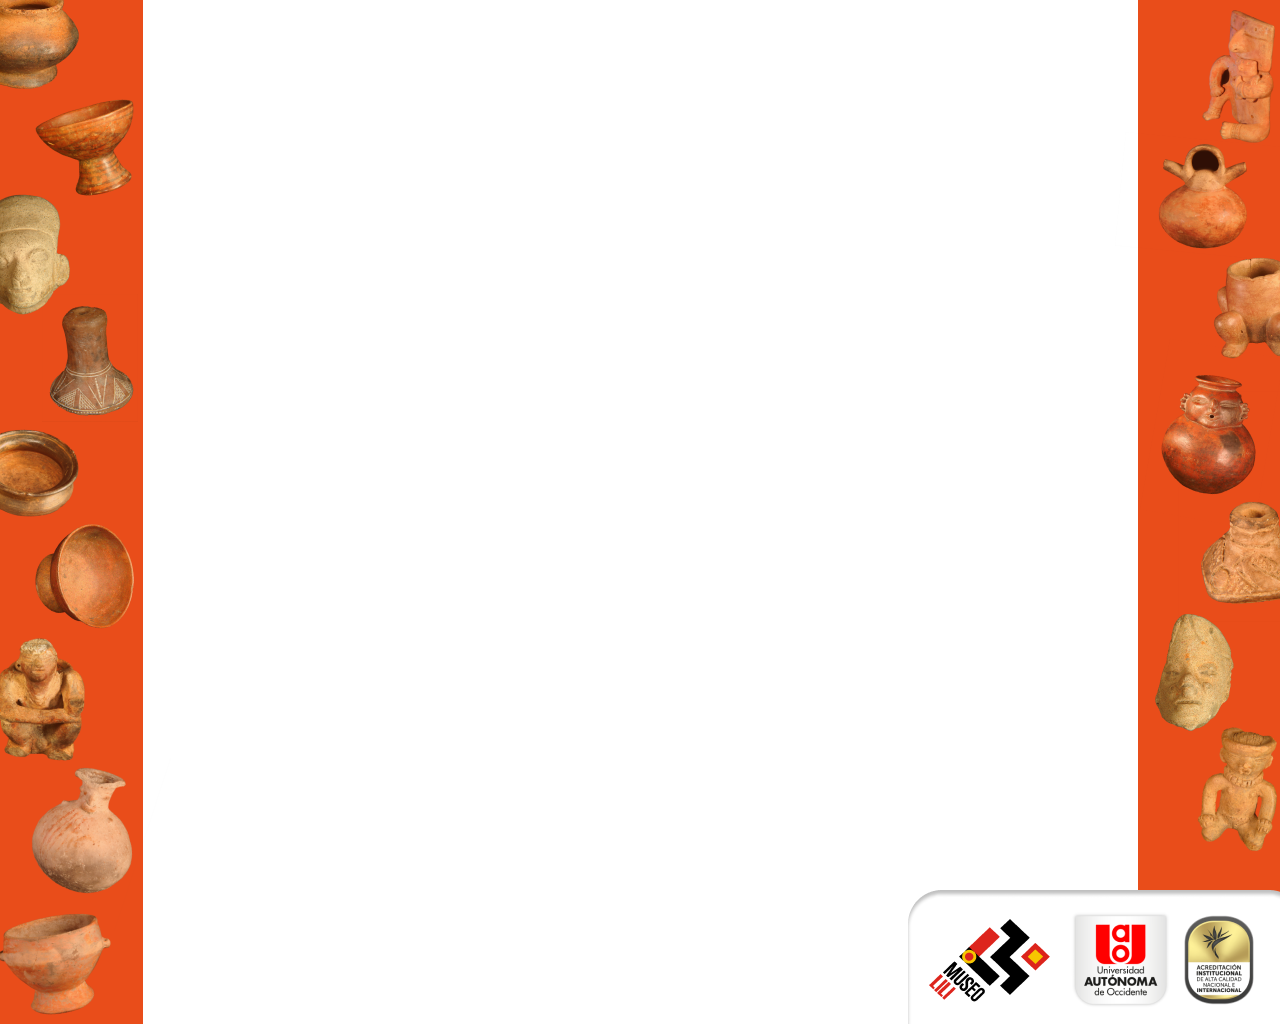
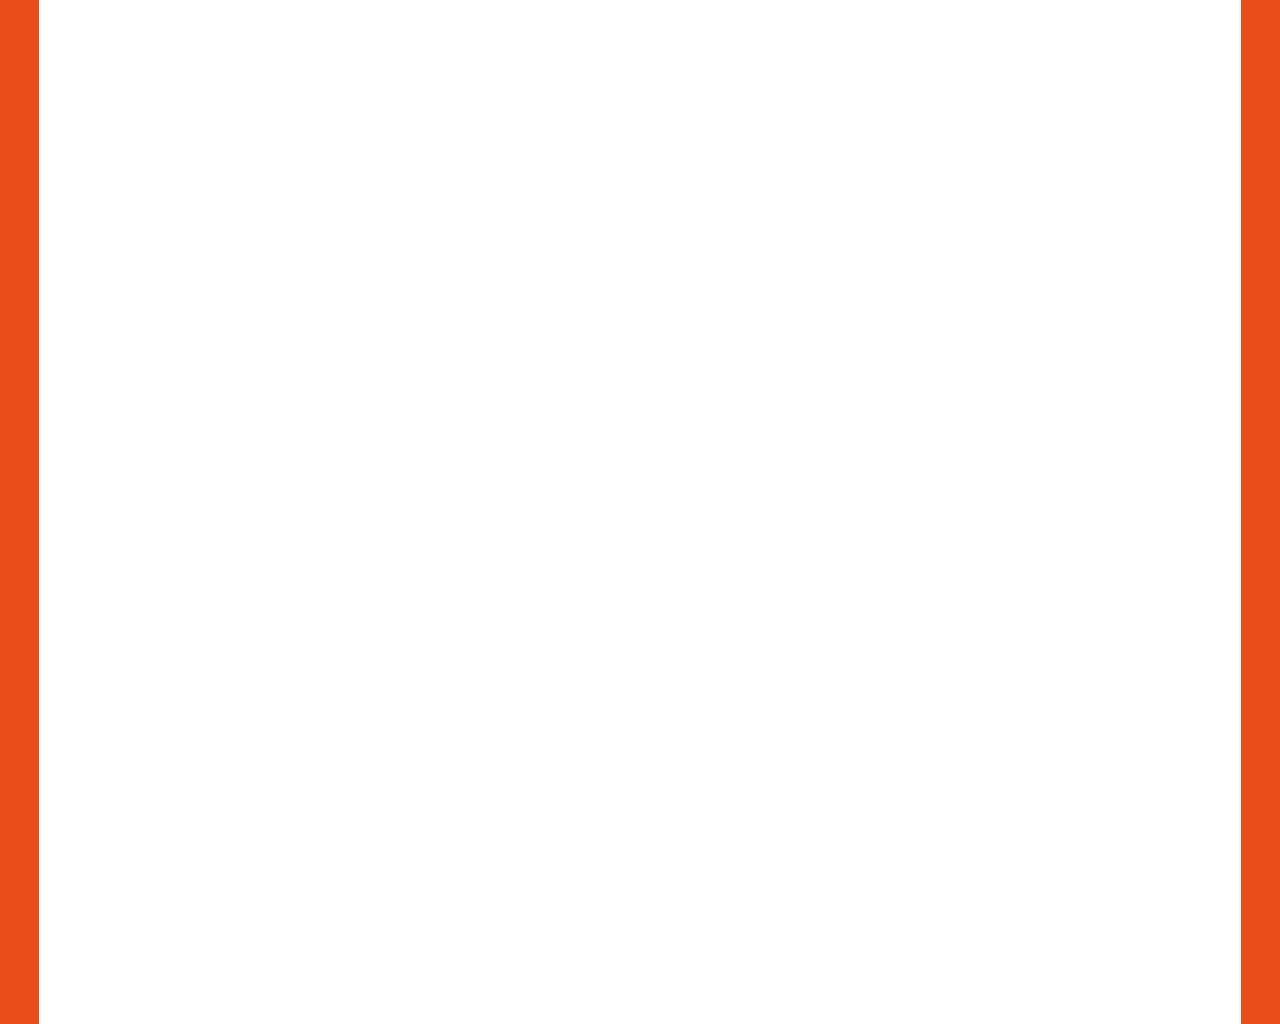
Coreccion interfaces, nueva interfaz. Texto.

Changed region(s): [[0.7188, 0.0, 1.0, 1.0], [0.0, 0.0, 0.125, 1.0]]

diff --git a/src/EsperarCelular/index.js b/src/EsperarCelular/index.js
@@ -1,0 +1,97 @@
+import "./esperarCelular.css";
+import simbolo1 from "../Traductor/simbolos/simbolo1.png";
+import simbolo2 from "../Traductor/simbolos/simbolo2.png";
+import simbolo3 from "../Traductor/simbolos/simbolo3.png";
+import simbolo4 from "../Traductor/simbolos/simbolo4.png";
+import simbolo5 from "../Traductor/simbolos/simbolo5.png";
+import simbolo6 from "../Traductor/simbolos/simbolo6.png";
+import simbolo7 from "../Traductor/simbolos/simbolo7.png";
+import simbolo8 from "../Traductor/simbolos/simbolo8.png";
+import simbolo9 from "../Traductor/simbolos/simbolo9.png";
+import simbolo10 from "../Traductor/simbolos/simbolo10.png";
+import simbolo11 from "../Traductor/simbolos/simbolo11.png";
+import simbolo12 from "../Traductor/simbolos/simbolo12.png";
+import simbolo13 from "../Traductor/simbolos/simbolo13.png";
+import simbolo14 from "../Traductor/simbolos/simbolo14.png";
+import simbolo15 from "../Traductor/simbolos/simbolo15.png";
+import simbolo16 from "../Traductor/simbolos/simbolo16.png";
+import simbolo17 from "../Traductor/simbolos/simbolo17.png";
+import simbolo18 from "../Traductor/simbolos/simbolo18.png";
+import simbolo19 from "../Traductor/simbolos/simbolo19.png";
+import simbolo20 from "../Traductor/simbolos/simbolo20.png";
+import logoU from "./resources/logoU.png";
+
+import { useNavigate } from "react-router-dom";
+import React, { useState, useEffect } from 'react';
+
+function EsperarCelular({ historia }) {
+  const navigate = useNavigate();
+  const [isDisabled, setIsDisabled] = useState(true);
+
+  useEffect(() => {
+    // Deshabilita el botón durante 1 minuto (60000 ms)
+    const timer = setTimeout(() => {
+      setIsDisabled(false);
+    }, 60000);
+
+    // Limpieza del temporizador cuando el componente se desmonta
+    return () => clearTimeout(timer);
+  }, []);
+
+  const getImagesForHistoria = (historia) => {
+    switch (historia) {
+      case 1:
+        return [simbolo5, simbolo6, simbolo7, simbolo9];
+      case 2:
+        return [simbolo1, simbolo2, simbolo3, simbolo4];        
+      case 3:
+        return [simbolo8, simbolo15, simbolo11, simbolo16];
+      case 4:
+        return [simbolo10, simbolo12, simbolo13, simbolo14];
+      case 5:
+        return [simbolo17, simbolo18, simbolo19, simbolo20];
+      default:
+        return [];
+    }
+  };
+
+  const handleClick = () => {
+    navigate("/introduccion");
+  };
+
+  // Obtener las imágenes según la historia
+  const images = getImagesForHistoria(historia);
+
+  return (
+    <div>
+      <div className="contenedor">
+        <h1 className="title">Viajero espera...</h1>
+        <p className="text12">Observa la tematica del dia</p>
+        <p className="text12">y no pierdas de vista su</p>
+        <p className="textred">Simbologia...</p>
+      </div>
+      <div className="fourimg">
+        {images.map((src, index) => (
+          <img
+            key={index}
+            src={src}
+            alt={`Imagen ${index + 1}`}
+            className="responsive-img"
+          />
+        ))}
+      </div>
+      <div className="contenedor">
+        <button
+          onClick={handleClick}
+          disabled={isDisabled}
+          className="buttonContinuar"
+        >
+          {isDisabled ? 'Continuar' : 'Continuar'}
+        </button>
+      </div>
+      <img alt="Logo Museo" src={logoU} className="logo" />
+    </div>
+  );
+}
+
+export { EsperarCelular };

diff --git a/src/EsperarCelular/esperarCelular.css b/src/EsperarCelular/esperarCelular.css
@@ -1,0 +1,87 @@
+.contenedor {
+  display: flex;
+  flex-direction: column;
+  justify-content: center;
+  align-items: center;
+}
+
+.title {
+  text-align: center;
+  font-family: ABeeZee;
+  font-size: 36;
+  color: #424242;
+  font-weight: 5000;
+  letter-spacing: -1%;
+  line-height: 130%;
+}
+
+.text12 {
+  text-align: center;
+  font-family: ABeeZee;
+  color: #424242;
+  font-weight: 500;
+  font-size: 24;
+}
+.textred {
+  text-align: center;
+  font-family: ABeeZee;
+  color: #fb0404;
+  font-weight: 500;
+  font-size: 24;
+  font-style: italic;
+}
+
+.fourimg {
+  display: flex;
+  justify-content: center;
+  align-items: center;
+  flex-wrap: wrap;
+  gap: 2px; /* Add some space between images */
+  position: absolute;
+  transform: translate(-5%, 120%);
+}
+
+.responsive-img {
+  max-width: 20%;
+  height: auto;
+  flex: 1 1 25%; /* Ensures the images are responsive and adjust to the container */
+  padding: 3px;
+}
+
+.buttonContinuar {
+  text-align: center;
+  font-family: "ABeeZee", sans-serif; /* Añadido sans-serif para asegurar que se renderice correctamente */
+  border-radius: 10px;
+  fill: #e94d1a;
+  width: 204px;
+  height: 41px;
+  color: white;
+  background: #e94d1a;
+  border: solid 3px #e94d1a;
+  transition: background-color 0.3s ease;
+  cursor: pointer;
+  padding: 10px 20px;
+  position: fixed; /* Fijar la posición */
+  bottom: 200px; /* Ajusta este valor según sea necesario */
+  left: 50%;
+  transform: translateX(-50%);
+}
+
+.buttonContinuar:hover {
+  background-color: #d9733f;
+}
+
+.buttonContinuar:disabled {
+  background-color: #f2a58b; /* Color más claro cuando está deshabilitado */
+  border-color: #f2a58b; /* Color del borde cuando está deshabilitado */
+  cursor: not-allowed; /* Cambia el cursor cuando está deshabilitado */
+  color: #cccccc; /* Color del texto cuando está deshabilitado */
+}
+.logo {
+  position: fixed;
+  bottom: 20px; /* Ajusta esta distancia según lo necesites */
+  left: 50%;
+  transform: translateX(-50%);
+  max-width: 100%;
+  height: auto;
+}

diff --git a/src/App.js b/src/App.js
@@ -56,6 +56,7 @@ import { HuaqSymbol20 } from "./HuaqSymbol20";
 import { HuaqQR } from "./HuaqQR/index.js";
 import { HuaqCamera } from "./HuaqCamera/index.js";
 import { TimeTest } from "./TimeTest/index.js";
+import { EsperarCelular } from "./EsperarCelular/index.js";
 
 function App() {
   return (
@@ -71,7 +72,7 @@ function App() {
             <Route path="/" element={<InputCodigo />} />
 
             <Route path="/museo" element={<PantallaMuseo />} />
-            
+
             <Route path="/MuseoInduccion" element={<MuseoInduccion />} />
             <Route path="/animacionMuseo" element={<AnimacionMuseo />} />
             <Route path="/qrMuseo" element={<QrMuseo />} />
@@ -165,6 +166,11 @@ function App() {
             <Route path="/HuaqQR" element={<HuaqQR />} />
 
             <Route path="/TimeTest" element={<TimeTest />} />
+
+            <Route
+              path="/EsperarCelular"
+              element={<EsperarCelular historia={1} />}
+            />
           </Routes>
         </MyContextProvider>
       </HashRouter>

diff --git a/src/IntentaloDenuevo/intentaloDenuevo.css b/src/IntentaloDenuevo/intentaloDenuevo.css
@@ -1,16 +1,14 @@
 .divIntentalo > h1 {
   color: #432b18;
-
   text-align: center;
   font-family: ABeeZee;
   font-size: 96px;
   font-style: normal;
   font-weight: bolder;
   line-height: 130%; /* 124.8px */
-  letter-spacing: -0.96px;
 }
+
 .divIntentalo {
-  width: 572px;
   display: flex;
   flex-direction: column;
   justify-content: center;
@@ -31,4 +29,16 @@
   width: 362.23px;
   height: 71.201px;
   font-size: 36px;
+}
+
+.text1 {
+  margin-top: -85px;
+  font-family: ABeeZee;
+  font-size: 45px;
+  color: #432B18;
+}
+.text2 {
+  font-family: ABeeZee;
+  font-size: 45px;
+  color: #432B18;
 }

diff --git a/src/IntentaloDenuevo/index.js b/src/IntentaloDenuevo/index.js
@@ -15,7 +15,9 @@ function IntentaloDenuevo({ historia }) {
   return (
     <div className="contIntentalo" style={{ backgroundImage: `url(${fondo})` }}>
       <div className="divIntentalo">
-        <h1>Inténtalo de nuevo</h1>
+        <h1>¡Inténtalo de nuevo!</h1>
+        <p className="text1">Estamos seguros de que esta vez lo</p>
+        <p className="text2">harás aún mejor. ¡Buena suerte!</p>
         <button className="btnContinuar" onClick={handleContinuarClick}>
           Continuar
         </button>

diff --git a/src/TematicaMuseo2/TematicaMuseo2.css b/src/TematicaMuseo2/TematicaMuseo2.css
@@ -2,7 +2,7 @@
   position: relative;
   width: 100vw;
   height: 100vh;
-  background-image: url("../AnimacionMuseo/resources/Animacion.png");
+  background-image: url("./resources/fondo1.png");
   background-size: cover;
   background-position: center;
   background-repeat: no-repeat;

diff --git a/src/InputCodigo/inputCodigo.css b/src/InputCodigo/inputCodigo.css
@@ -110,7 +110,7 @@ input::placeholder {
   -webkit-font-smoothing: antialiased;
   text-align: initial;
   font-size: 9px;
-  color: red;
+  color: white;
   font-family: "ABeeZee", sans-serif;
   font-weight: 600;
   margin: 1px;

diff --git a/src/HuaqCamera/index.js b/src/HuaqCamera/index.js
@@ -262,6 +262,7 @@ function HuaqCamera() {
       </div>
 
       <div className="fondoAmarillo">
+        
         <QrScanner
           delay={300}
           style={previewStyle}
